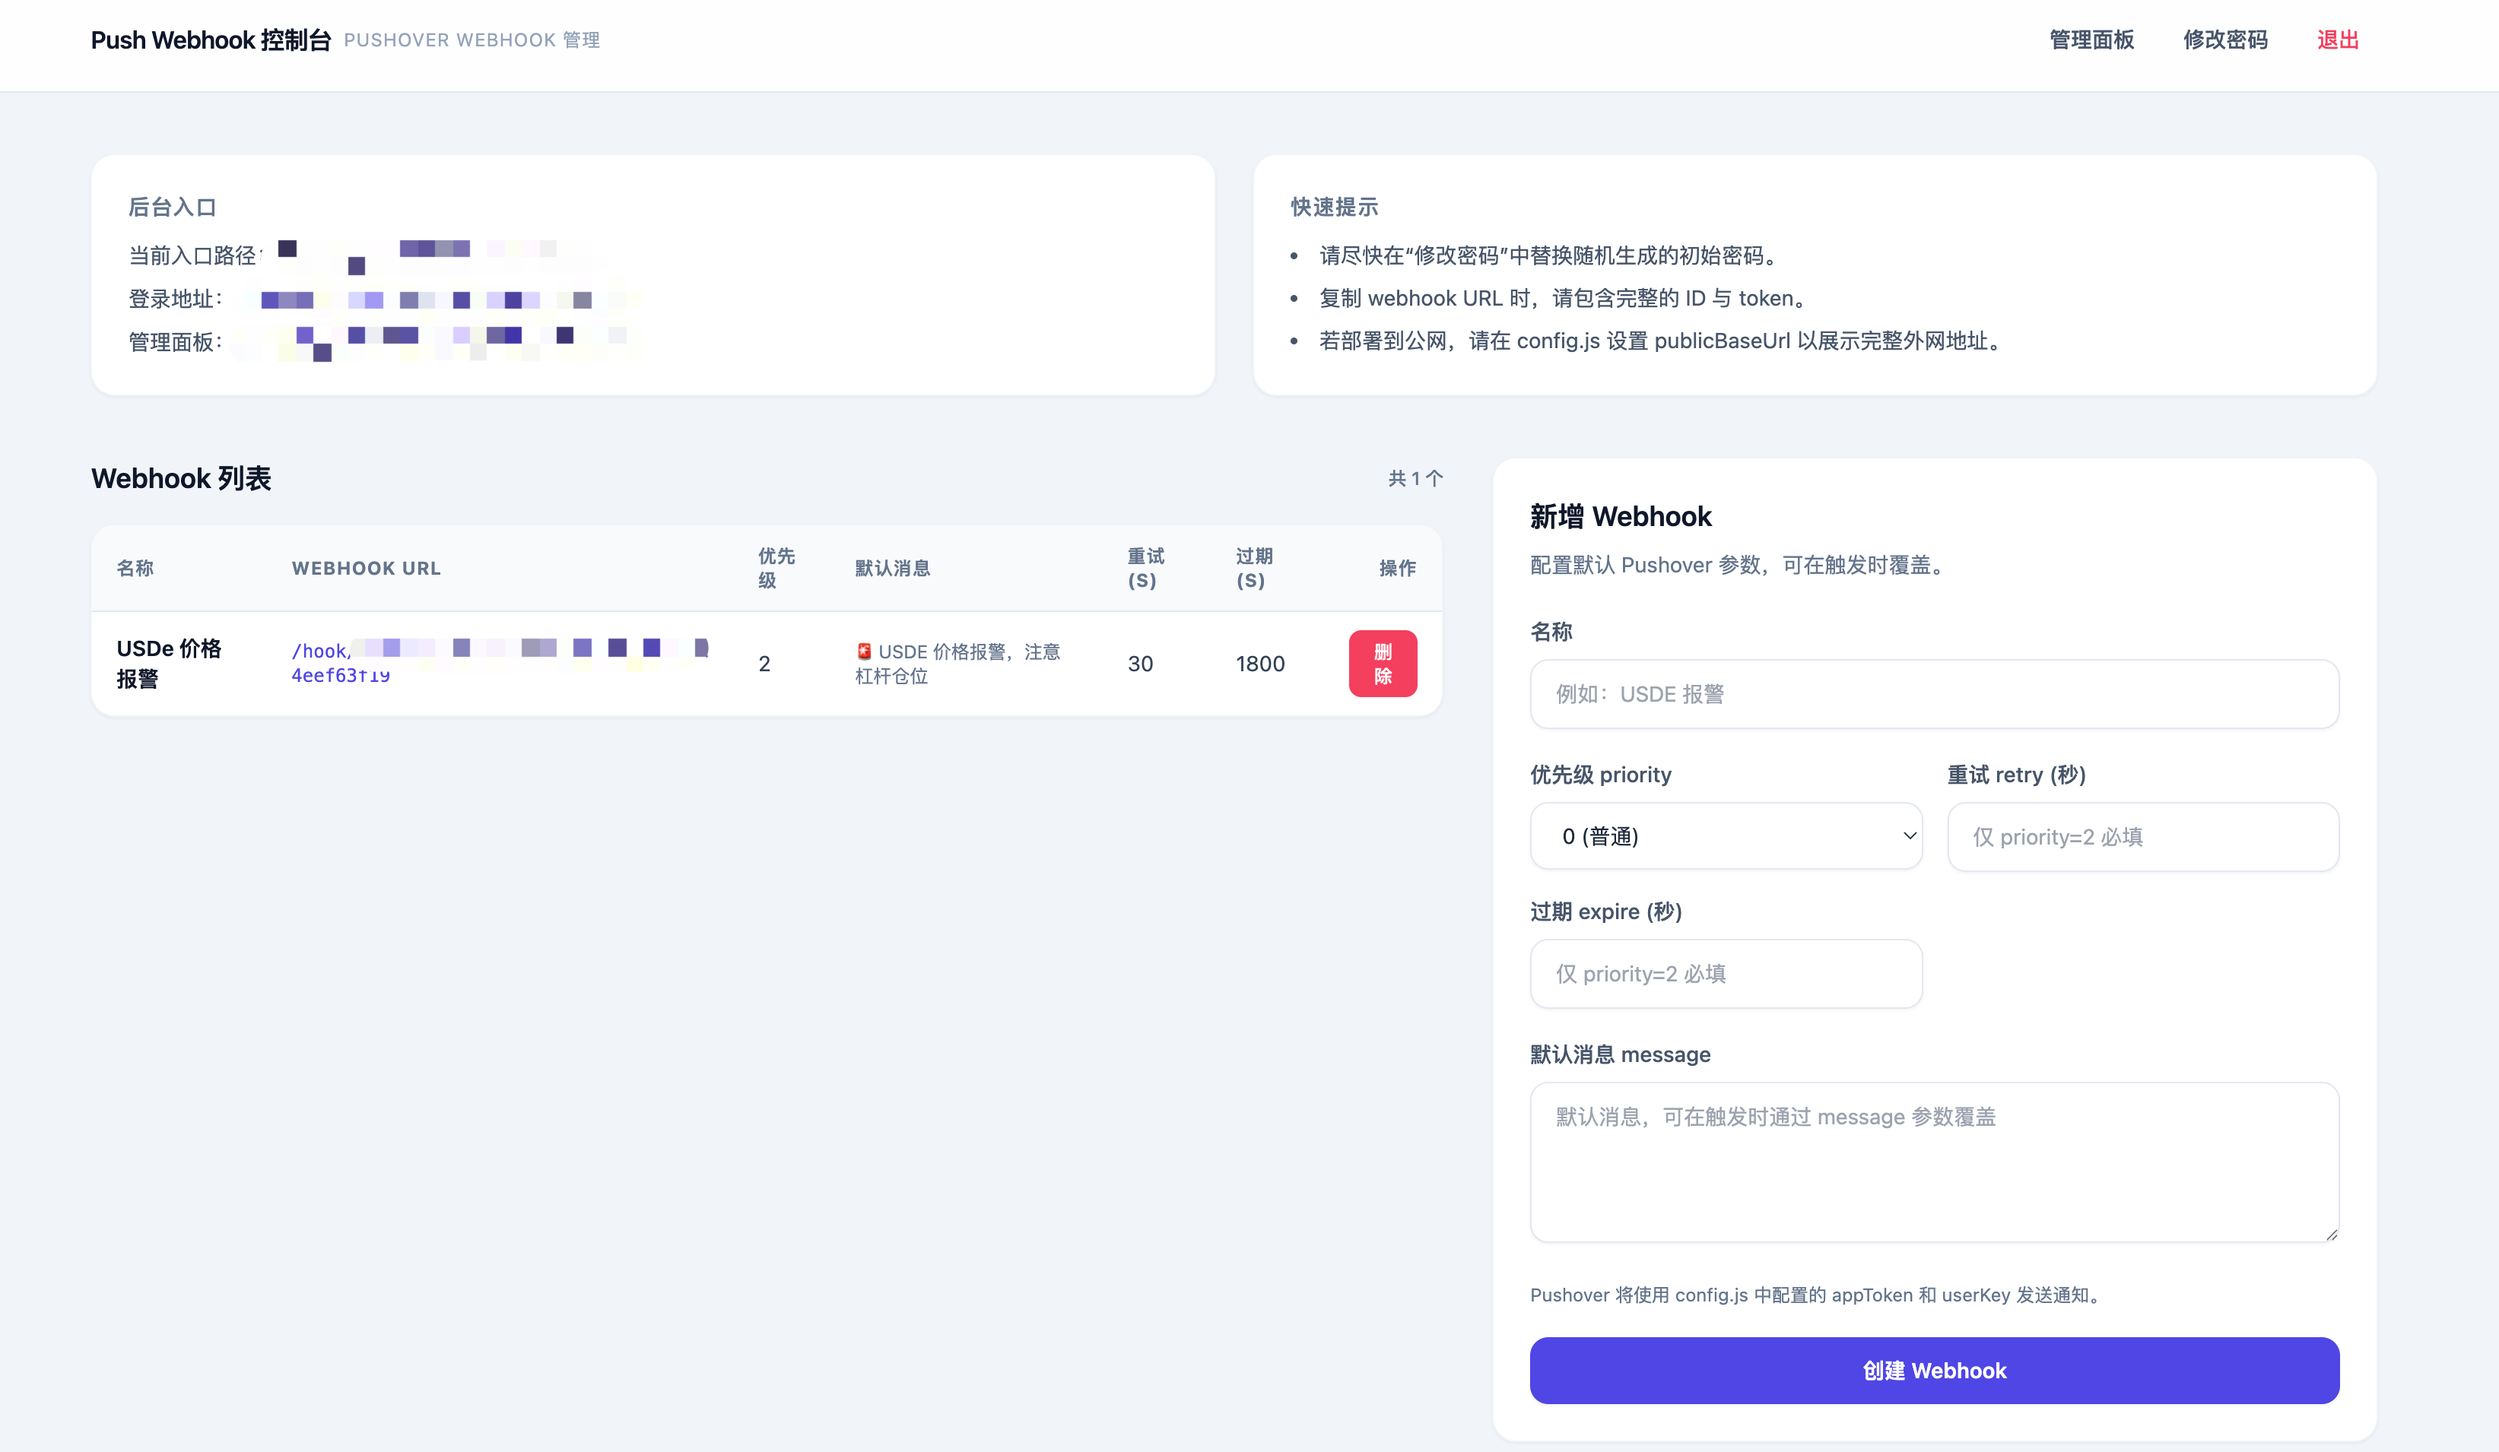
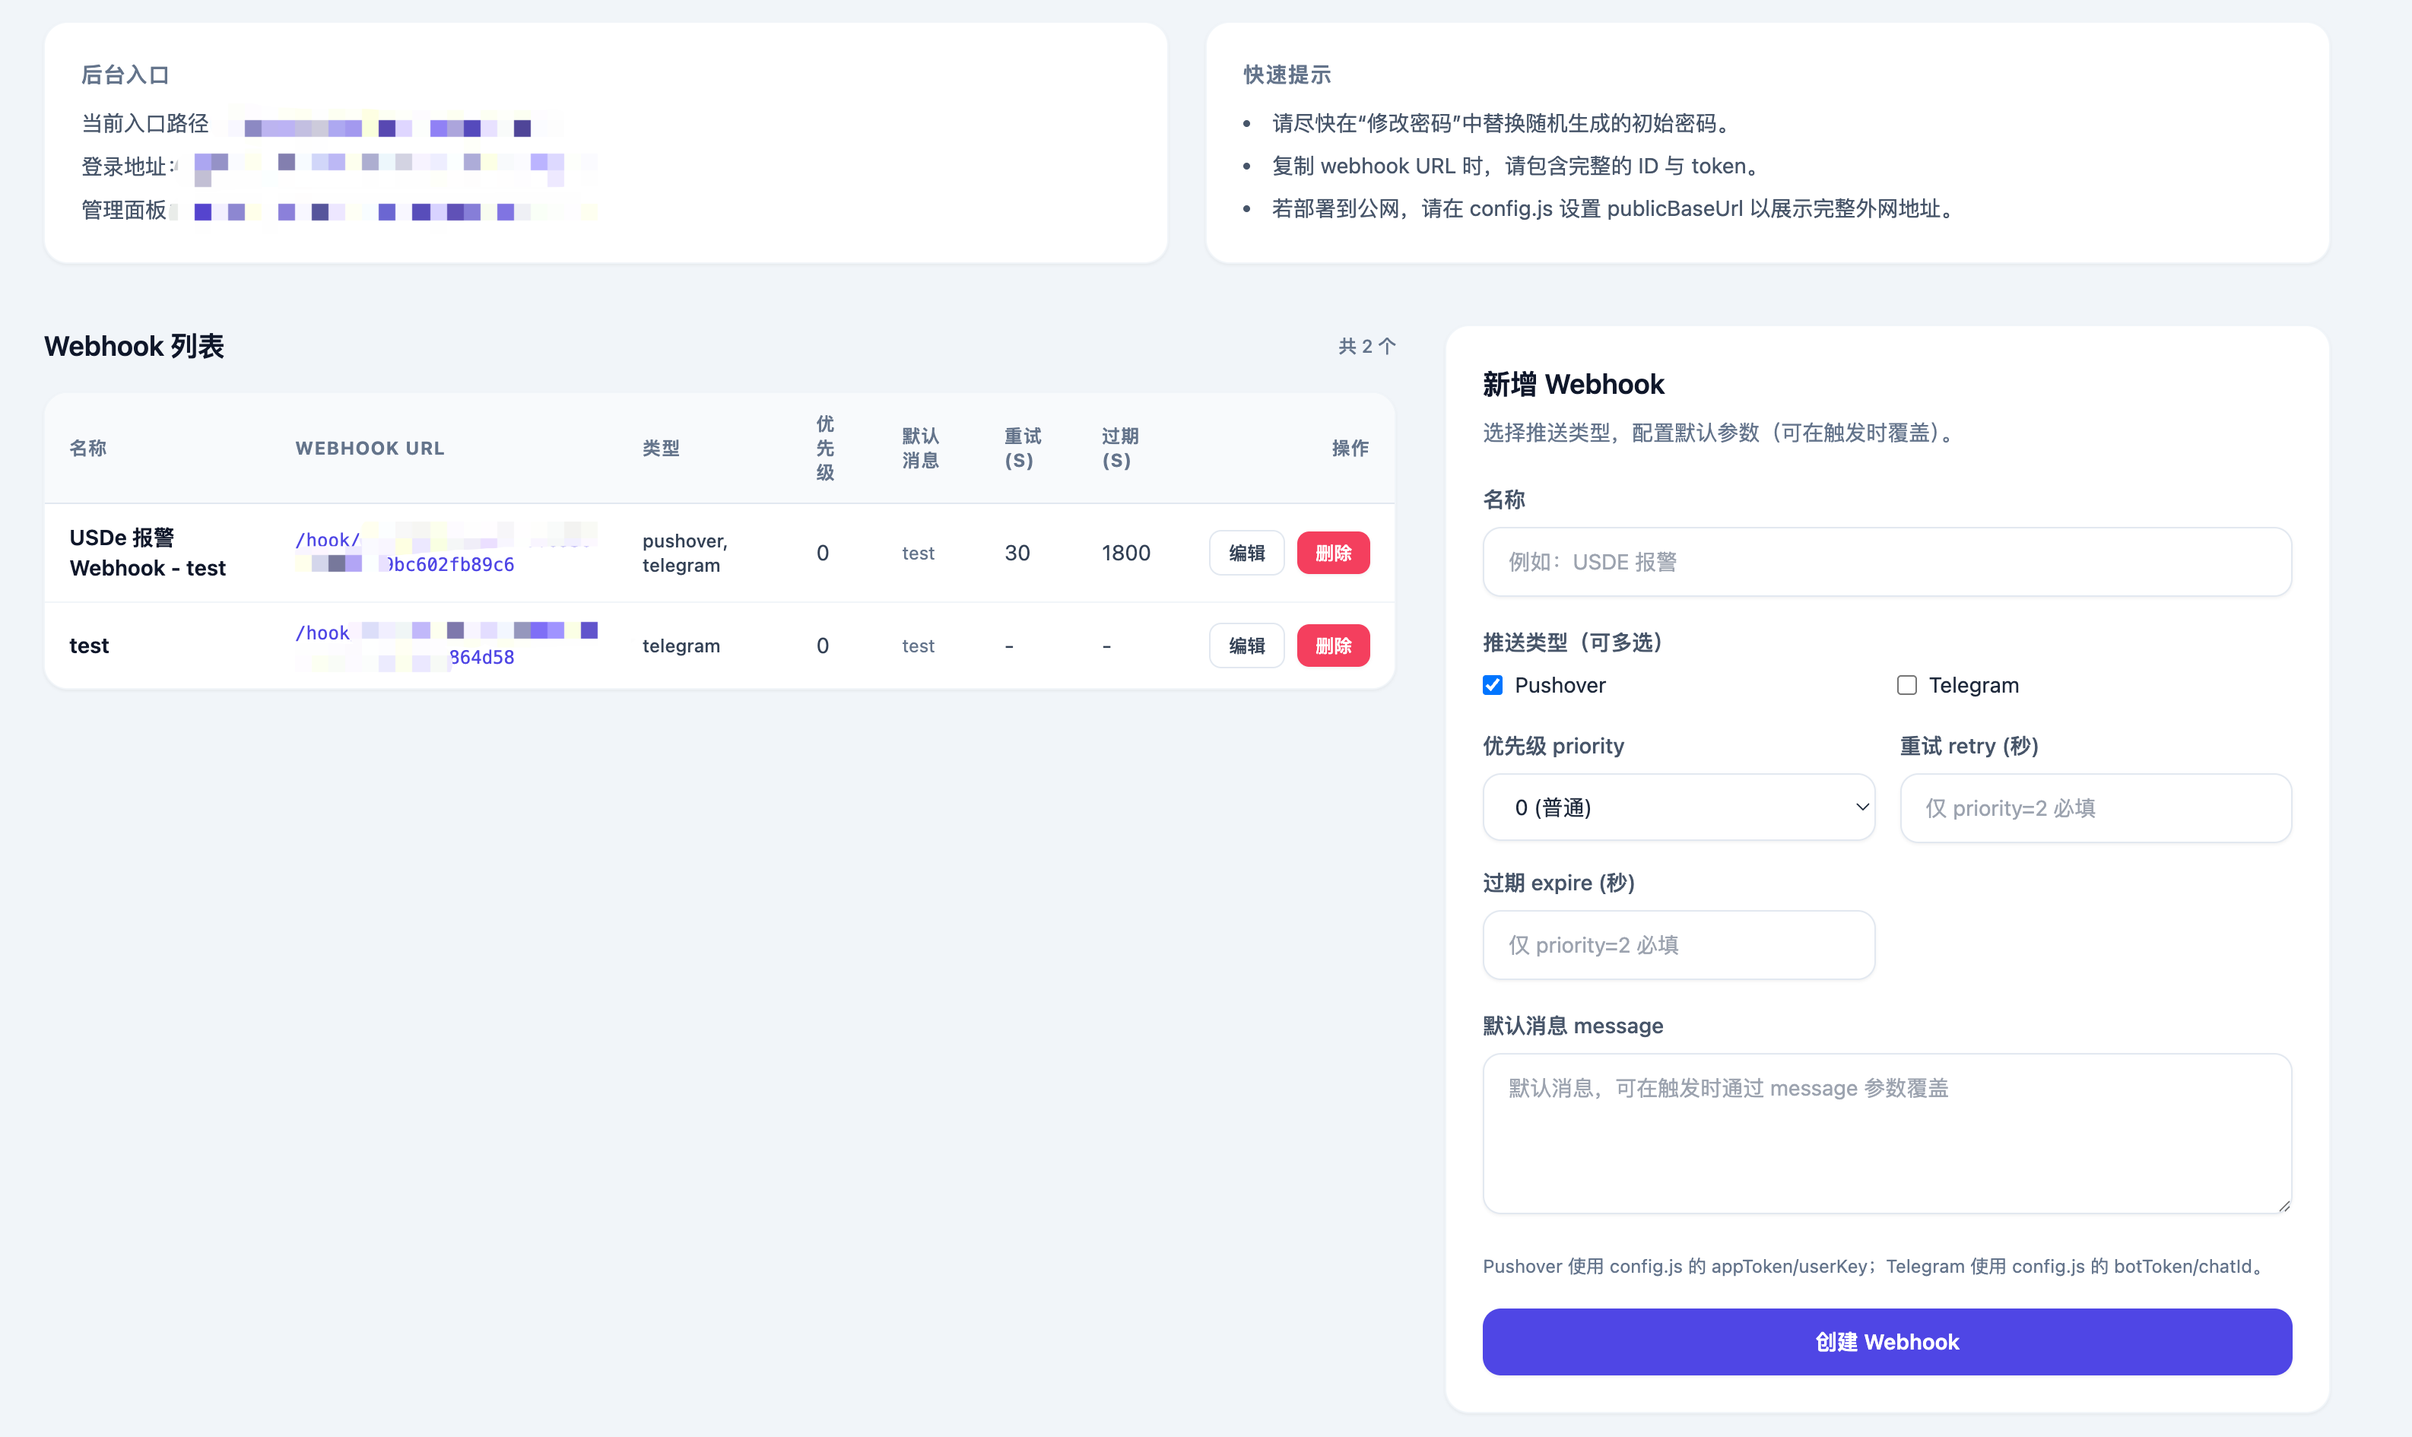
feat: edit functions

diff --git a/server.js b/server.js
@@ -40,7 +40,8 @@ const routes = {
   admin: withBase('/admin'),
   password: withBase('/admin/password'),
   webhooks: withBase('/admin/webhooks'),
-  webhookDelete: (id) => withBase(`/admin/webhooks/${id}/delete`)
+  webhookDelete: (id) => withBase(`/admin/webhooks/${id}/delete`),
+  webhookEdit: (id) => withBase(`/admin/webhooks/${id}/edit`)
 };
 
 // Helpers
@@ -186,10 +187,13 @@ app.get(routes.admin, requireLogin, (req, res) => {
       <td class="px-4 py-3 text-xs text-slate-500 break-words">${messagePreview || '-'}</td>
       <td class="px-4 py-3 text-sm text-slate-700">${w.retry ?? '-'}</td>
       <td class="px-4 py-3 text-sm text-slate-700">${w.expire ?? '-'}</td>
-      <td class="px-4 py-3 text-right">
-        <form class="inline" method="post" action="${routes.webhookDelete(w.id)}" onsubmit="return confirm('确定删除该 webhook?');">
-          <button class="inline-flex items-center gap-1 rounded-lg bg-rose-500 px-3 py-1.5 text-xs font-medium text-white shadow-sm transition hover:bg-rose-600" type="submit">删除</button>
-        </form>
+      <td class="px-4 py-3">
+        <div class="flex items-center justify-end gap-2 whitespace-nowrap">
+          <a href="${routes.webhookEdit(w.id)}" class="inline-flex items-center gap-1 rounded-lg border border-slate-200 px-3 py-1.5 text-xs font-medium text-slate-700 transition hover:border-indigo-400 hover:text-indigo-600">编辑</a>
+          <form class="inline" method="post" action="${routes.webhookDelete(w.id)}" onsubmit="return confirm('确定删除该 webhook?');">
+            <button class="inline-flex items-center gap-1 rounded-lg bg-rose-500 px-3 py-1.5 text-xs font-medium text-white shadow-sm transition hover:bg-rose-600" type="submit">删除</button>
+          </form>
+        </div>
       </td>
     </tr>`;
   }).join('');
@@ -427,6 +431,122 @@ app.post(routes.password, requireLogin, (req, res) => {
 app.post(withBase('/admin/webhooks/:id/delete'), requireLogin, (req, res) => {
   const { id } = req.params;
   db.webhooks = db.webhooks.filter(w => w.id !== id);
+  saveDB();
+  res.redirect(routes.admin);
+});
+
+// Edit webhook
+app.get(withBase('/admin/webhooks/:id/edit'), requireLogin, (req, res) => {
+  const { id } = req.params;
+  const hook = db.webhooks.find(w => w.id === id);
+  if (!hook) return res.status(404).send(renderPage('未找到', '<div class="rounded-xl bg-white p-6 shadow">未找到该 Webhook</div>'));
+
+  const providers = Array.isArray(hook.providers) && hook.providers.length ? hook.providers : [hook.provider || 'pushover'];
+  const isP = providers.includes('pushover');
+  const checked = (p) => (providers.includes(p) ? 'checked' : '');
+  const base = config.publicBaseUrl || '';
+  const path = `/hook/${hook.id}/${hook.token}`;
+  const url = base ? base.replace(/\/$/, '') + path : path;
+
+  const html = `
+    <div class="max-w-3xl mx-auto">
+      <div class="rounded-2xl border border-slate-100 bg-white p-8 shadow-sm space-y-6">
+        <div class="flex items-center justify-between">
+          <h2 class="text-xl font-semibold text-slate-900">编辑 Webhook</h2>
+          <a href="${routes.admin}" class="text-sm text-indigo-600 hover:underline">返回列表</a>
+        </div>
+        <p class="text-xs text-slate-500">Webhook URL：<span class="font-mono text-indigo-600 break-all">${url}</span></p>
+        <form method="post" action="${routes.webhookEdit(hook.id)}" class="space-y-5">
+          <div>
+            <label class="block text-sm font-medium text-slate-600">名称</label>
+            <input name="name" value="${hook.name || ''}" class="mt-2 w-full rounded-xl border border-slate-200 px-4 py-3 text-sm shadow-sm focus:border-indigo-500 focus:outline-none focus:ring-2 focus:ring-indigo-200" />
+          </div>
+          <div>
+            <label class="block text-sm font-medium text-slate-600">推送类型（可多选）</label>
+            <div class="mt-2 grid grid-cols-2 gap-3 text-sm">
+              <label class="inline-flex items-center gap-2">
+                <input type="checkbox" name="providers" value="pushover" id="pv_pushover" ${checked('pushover')} class="rounded border-slate-300 text-indigo-600 focus:ring-indigo-500" />
+                <span>Pushover</span>
+              </label>
+              <label class="inline-flex items-center gap-2">
+                <input type="checkbox" name="providers" value="telegram" id="pv_telegram" ${checked('telegram')} class="rounded border-slate-300 text-indigo-600 focus:ring-indigo-500" />
+                <span>Telegram</span>
+              </label>
+            </div>
+          </div>
+          <div class="grid gap-4 sm:grid-cols-2">
+            <div>
+              <label class="block text-sm font-medium text-slate-600">优先级 priority</label>
+              <select name="priority" id="priority" class="mt-2 w-full rounded-xl border border-slate-200 bg-white px-4 py-3 text-sm shadow-sm focus:border-indigo-500 focus:outline-none focus:ring-2 focus:ring-indigo-200">
+                <option value="-2" ${hook.priority===-2?'selected':''}>-2 (最低)</option>
+                <option value="-1" ${hook.priority===-1?'selected':''}>-1 (较低)</option>
+                <option value="0" ${hook.priority===0?'selected':''}>0 (普通)</option>
+                <option value="1" ${hook.priority===1?'selected':''}>1 (高)</option>
+                <option value="2" ${hook.priority===2?'selected':''}>2 (紧急，需要 retry/expire)</option>
+              </select>
+            </div>
+            <div>
+              <label class="block text-sm font-medium text-slate-600">重试 retry (秒)</label>
+              <input name="retry" id="retry" type="number" min="30" step="1" value="${hook.retry ?? ''}" placeholder="仅 priority=2 必填" class="mt-2 w-full rounded-xl border border-slate-200 px-4 py-3 text-sm shadow-sm focus:border-indigo-500 focus:outline-none focus:ring-2 focus:ring-indigo-200" />
+            </div>
+            <div>
+              <label class="block text-sm font-medium text-slate-600">过期 expire (秒)</label>
+              <input name="expire" id="expire" type="number" min="60" step="1" value="${hook.expire ?? ''}" placeholder="仅 priority=2 必填" class="mt-2 w-full rounded-xl border border-slate-200 px-4 py-3 text-sm shadow-sm focus:border-indigo-500 focus:outline-none focus:ring-2 focus:ring-indigo-200" />
+            </div>
+          </div>
+          <div>
+            <label class="block text-sm font-medium text-slate-600">默认消息 message</label>
+            <textarea name="message" rows="4" class="mt-2 w-full rounded-xl border border-slate-200 px-4 py-3 text-sm shadow-sm focus:border-indigo-500 focus:outline-none focus:ring-2 focus:ring-indigo-200">${(hook.message||'').replace(/</g,'&lt;').replace(/>/g,'&gt;')}</textarea>
+          </div>
+          <div class="flex items-center gap-3">
+            <button type="submit" class="inline-flex items-center justify-center rounded-xl bg-indigo-600 px-4 py-2.5 text-sm font-semibold text-white shadow-sm transition hover:bg-indigo-700 focus:outline-none focus:ring-2 focus:ring-indigo-400">保存修改</button>
+            <a href="${routes.admin}" class="inline-flex items-center justify-center rounded-xl border border-slate-200 px-4 py-2.5 text-sm font-medium text-slate-700 transition hover:border-indigo-400 hover:text-indigo-600">取消</a>
+          </div>
+        </form>
+      </div>
+    </div>`;
+
+  const htmlWithScript = html + `
+    <script>
+      (function(){
+        const pP = document.getElementById('pv_pushover');
+        const fields = ['priority','retry','expire'];
+        function sync(){
+          const isP = !pP || pP.checked;
+          fields.forEach(id => {
+            const el = document.getElementById(id);
+            if (!el) return;
+            const wrapper = el.closest('div');
+            if (wrapper) wrapper.style.display = isP ? '' : 'none';
+          });
+        }
+        if (pP){ pP.addEventListener('change', sync); sync(); }
+      })();
+    </script>`;
+  res.send(renderPage('编辑 Webhook', htmlWithScript));
+});
+
+app.post(withBase('/admin/webhooks/:id/edit'), requireLogin, (req, res) => {
+  const { id } = req.params;
+  const hook = db.webhooks.find(w => w.id === id);
+  if (!hook) return res.status(404).send(renderPage('未找到', '<div class="rounded-xl bg-white p-6 shadow">未找到该 Webhook</div>'));
+
+  const { name, provider, priority, message, retry, expire } = req.body || {};
+  let providers = req.body.providers;
+  if (!providers || (Array.isArray(providers) && providers.length === 0)) {
+    providers = provider || 'pushover';
+  }
+  if (!Array.isArray(providers)) providers = [providers];
+  providers = providers.filter(Boolean);
+  if (providers.length === 0) providers = ['pushover'];
+
+  hook.name = name || '';
+  hook.providers = providers;
+  hook.priority = Number(priority || 0);
+  hook.message = message || '';
+  hook.retry = retry ? Number(retry) : undefined;
+  hook.expire = expire ? Number(expire) : undefined;
+
   saveDB();
   res.redirect(routes.admin);
 });

diff --git a/README.md b/README.md
@@ -26,8 +26,9 @@
 1. 登录入口：使用启动日志中的 Admin login URL 访问。
 2. 登录凭据：使用日志中的账号密码（或 `config.js` 中自定义的账号密码）。
 3. 修改密码：登录后通过导航中的“修改密码”链接进入（路径位于随机入口下，例如 `/随机路径/admin/password`）。首次修改会更新 `data/admin.json`。
-4. 新增 webhook：在“管理面板”列表页中填写名称、priority、默认 message，以及 priority=2 时必填的 retry/expire，保存后会生成触发 URL（`/hook/:id/:token`）。
-5. 触发通知：对生成的 URL 发起 POST 或 GET 请求即可向相应通道推送，可通过 body 或 query 覆盖默认消息：
+4. 新增 webhook：在“管理面板”列表页填写名称、选择推送类型（可多选），Pushover 可设置 priority/retry/expire，保存后会生成触发 URL（`/hook/:id/:token`）。
+5. 编辑 webhook：在列表中点击“编辑”可更新名称、推送类型与默认参数。
+6. 触发通知：对生成的 URL 发起 POST 或 GET 请求即可向相应通道推送，可通过 body 或 query 覆盖默认消息：
    ```bash
    curl -X POST "http://localhost:3000/hook/ID/TOKEN" \
      -H "Content-Type: application/json" \
@@ -142,7 +143,7 @@ curl -X POST https://api.pushover.net/1/messages.json \
 
 ## 展示
 
-  ![示例界面](docs/screenshots/example.png)
+  ![示例界面（示意图）](docs/screenshots/example.svg)
 
 ## 安全建议
 - 使用 priority=2 时务必提供 retry 与 expire。
